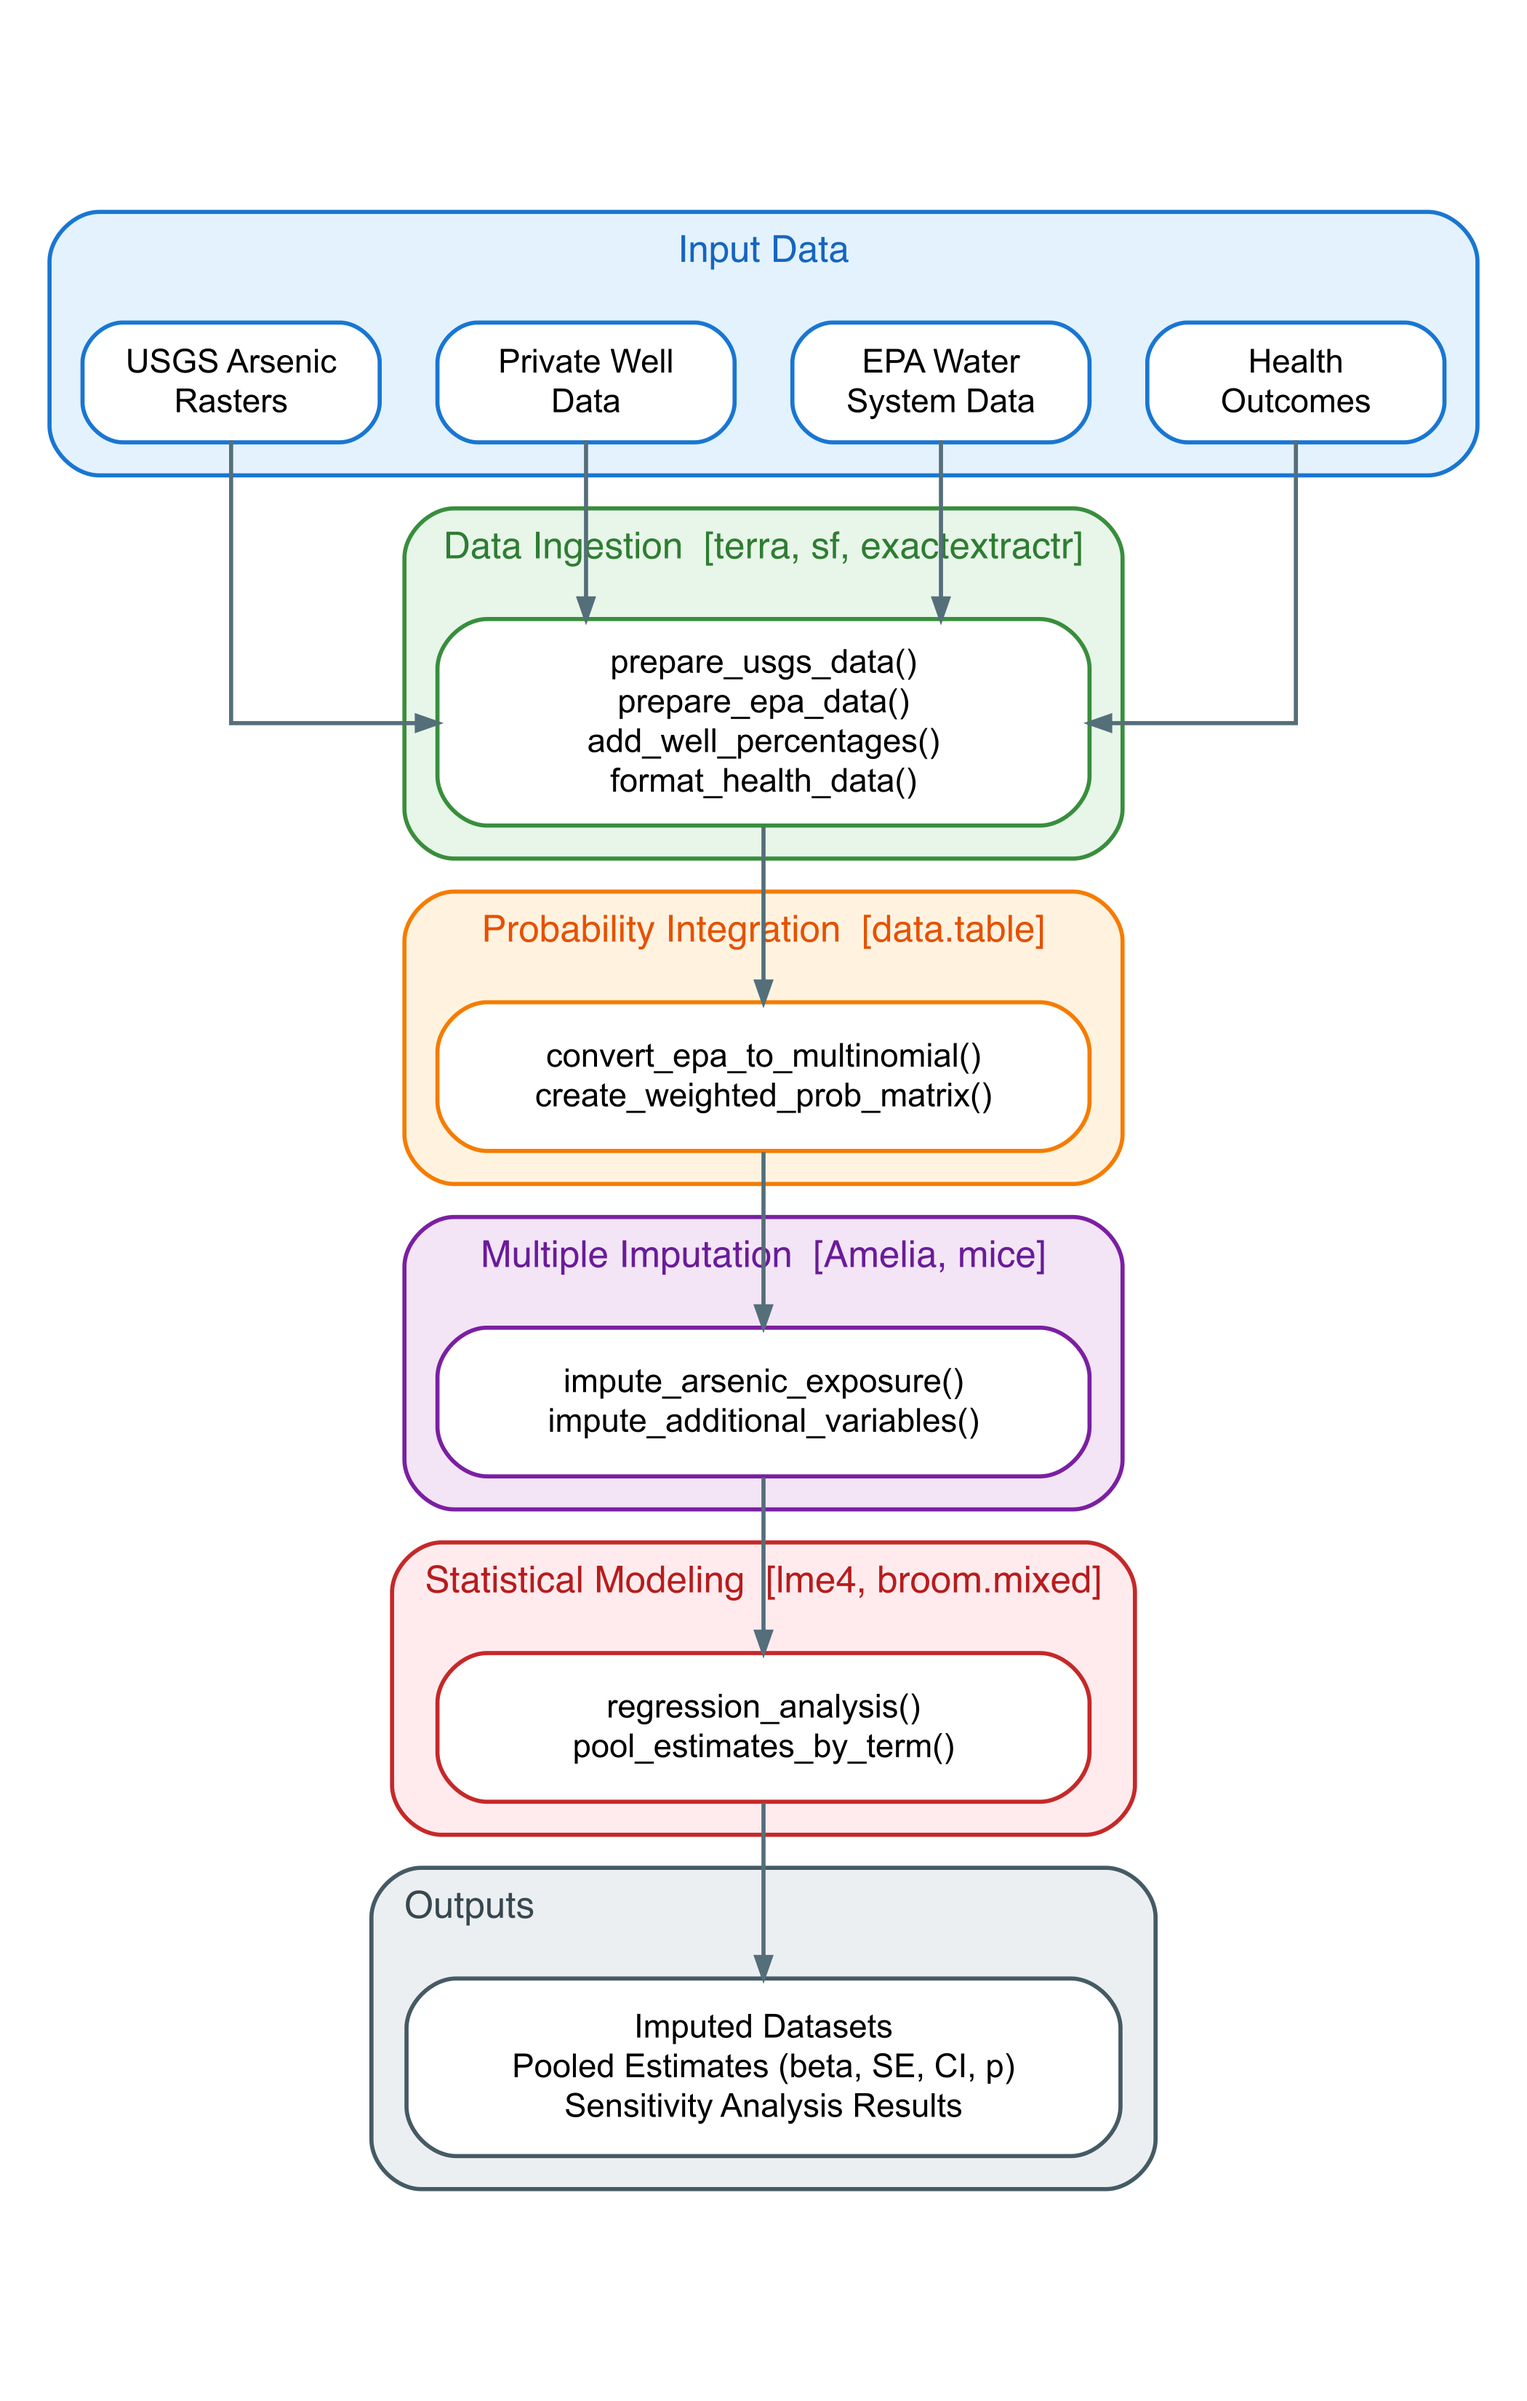
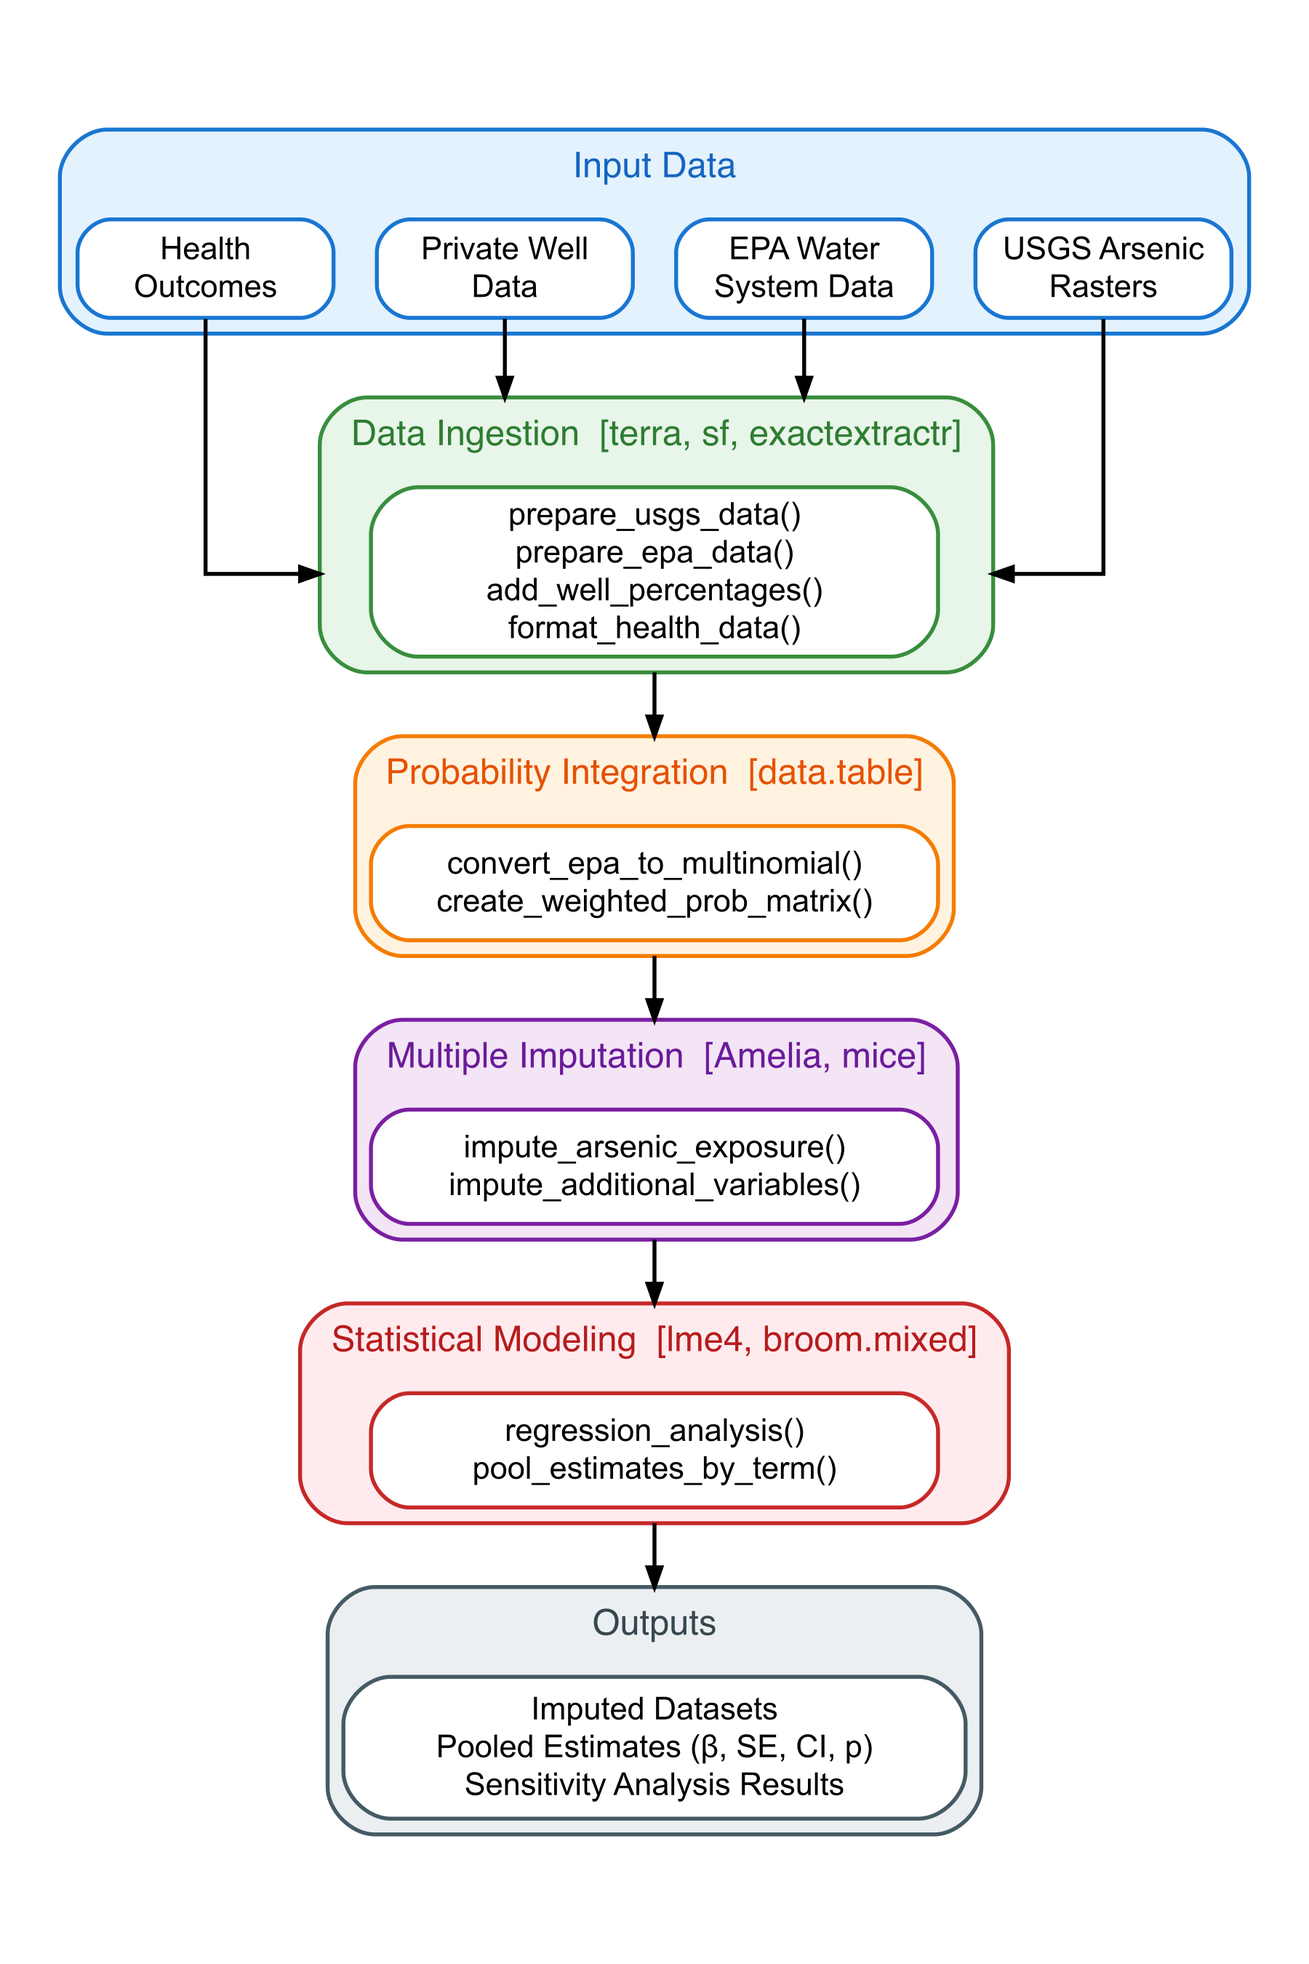
Update workflow

Changed region(s): [[0.0311, 0.0622, 0.9956, 0.9333]]

diff --git a/paper/paper.md b/paper/paper.md
@@ -63,9 +63,9 @@ By providing this accessible tool, gwArsenicR lowers the barrier to entry for co
 
 # Design and Implementation
 
-\autoref{fig:workflow} illustrates the complete analytical workflow implemented in gwArsenicR. The pipeline begins with four primary input data sources: USGS arsenic probability rasters, EPA public water system data, private well population estimates, and health outcome data. These inputs flow through a data ingestion stage that leverages geospatial packages (terra, sf, exactextractr) for raster extraction and data.table for efficient data manipulation. The probability integration stage converts EPA lognormal parameters to multinomial distributions compatible with USGS probability categories, then creates population-weighted probability matrices reflecting actual water source usage. Multiple imputation generates replicate datasets with probabilistically assigned arsenic exposure levels, with optional MICE imputation for missing covariates. Finally, mixed-effects regression models are fit to each imputed dataset and results are pooled according to Rubin's Rules to produce final estimates with proper uncertainty quantification.
+\autoref{fig:workflow} illustrates the complete analytical workflow implemented in gwArsenicR. The pipeline begins with four primary input data sources: USGS arsenic probability rasters [@Lombard-USGS-2021], EPA public water system data, private well population estimates [@Johnson-USGS-2019], and health outcome data. These inputs flow through a data ingestion stage that leverages geospatial packages (terra, sf, exactextractr) [@terra-2024; @sf-2024; @exactextractr-2024] for raster extraction and data.table [@data.table-2025] for efficient data manipulation. The probability integration stage converts EPA lognormal parameters to multinomial distributions compatible with USGS probability categories, then creates population-weighted probability matrices reflecting actual water source usage. Multiple imputation generates replicate datasets with probabilistically assigned arsenic exposure levels, with optional Multivariate Imputation by Chained Equations (MICE) imputation [@mice-2011] for missing covariates. Finally, mixed-effects regression models [@lme4-2015] are fit to each imputed dataset and results are pooled according to Rubin's Rules to produce final estimates with proper uncertainty quantification.
 
-![gwArsenicR analytical workflow showing the data processing pipeline from input sources through statistical modeling to pooled estimates. Packages used at each stage are indicated in brackets. \label{fig:workflow}](workflow.png)
+![gwArsenicR analytical workflow showing the data processing pipeline from input sources through statistical modeling to pooled estimates. Packages used at each stage are indicated in brackets. Pooled estimates include regression coefficients ($\beta$), standard errors (SE), 95% confidence intervals (CI), and p-values, all computed using Rubin's Rules to properly account for imputation uncertainty. \label{fig:workflow}](workflow.png)
 
 ## Software Architecture
 

diff --git a/README.md b/README.md
@@ -60,6 +60,7 @@ If you use gwArsenicR in your research, please cite:
 
 ## Table of Contents
 - [Statement of Need](#statement-of-need)
+- [Workflow](#workflow)
 - [Installation](#installation)
 - [Quick Start](#quick-start)
 - [Examples](#examples)
@@ -78,6 +79,16 @@ If you use gwArsenicR in your research, please cite:
 ## Statement of Need
 
 gwArsenicR is an R package that provides a streamlined workflow for epidemiologists and public health researchers to estimate arsenic exposure from private and public well water and to assess its association with various health outcomes. The package implements a sophisticated statistical approach that combines geospatial arsenic prediction models with a multiple imputation framework to account for exposure uncertainty. The core functionality integrates predicted arsenic concentration probabilities from U.S. Geological Survey (USGS) models for private wells with U.S. Environmental Protection Agency (EPA) data for public water systems. It then uses a weighting scheme based on the proportion of the population served by each water source to create a unified, county-level exposure probability distribution. By encapsulating these complex methodologies into a single, user-friendly function, gwArsenicR makes this type of analysis more accessible, reproducible, and standardized.
+
+## Workflow
+
+The figure below illustrates the complete analytical workflow implemented in gwArsenicR. The pipeline integrates four input data sources through data ingestion, probability integration, multiple imputation, and statistical modeling stages to produce pooled estimates with proper uncertainty quantification.
+
+<p align="center">
+  <img src="paper/workflow.png" alt="gwArsenicR Workflow" width="400">
+</p>
+
+<p align="center"><em>gwArsenicR analytical workflow showing the data processing pipeline from input sources through statistical modeling to pooled estimates. Packages used at each stage are indicated in brackets. Pooled estimates include regression coefficients (β), standard errors (SE), 95% confidence intervals (CI), and p-values, all computed using Rubin's Rules.</em></p>
 
 ### Key Capabilities
 
